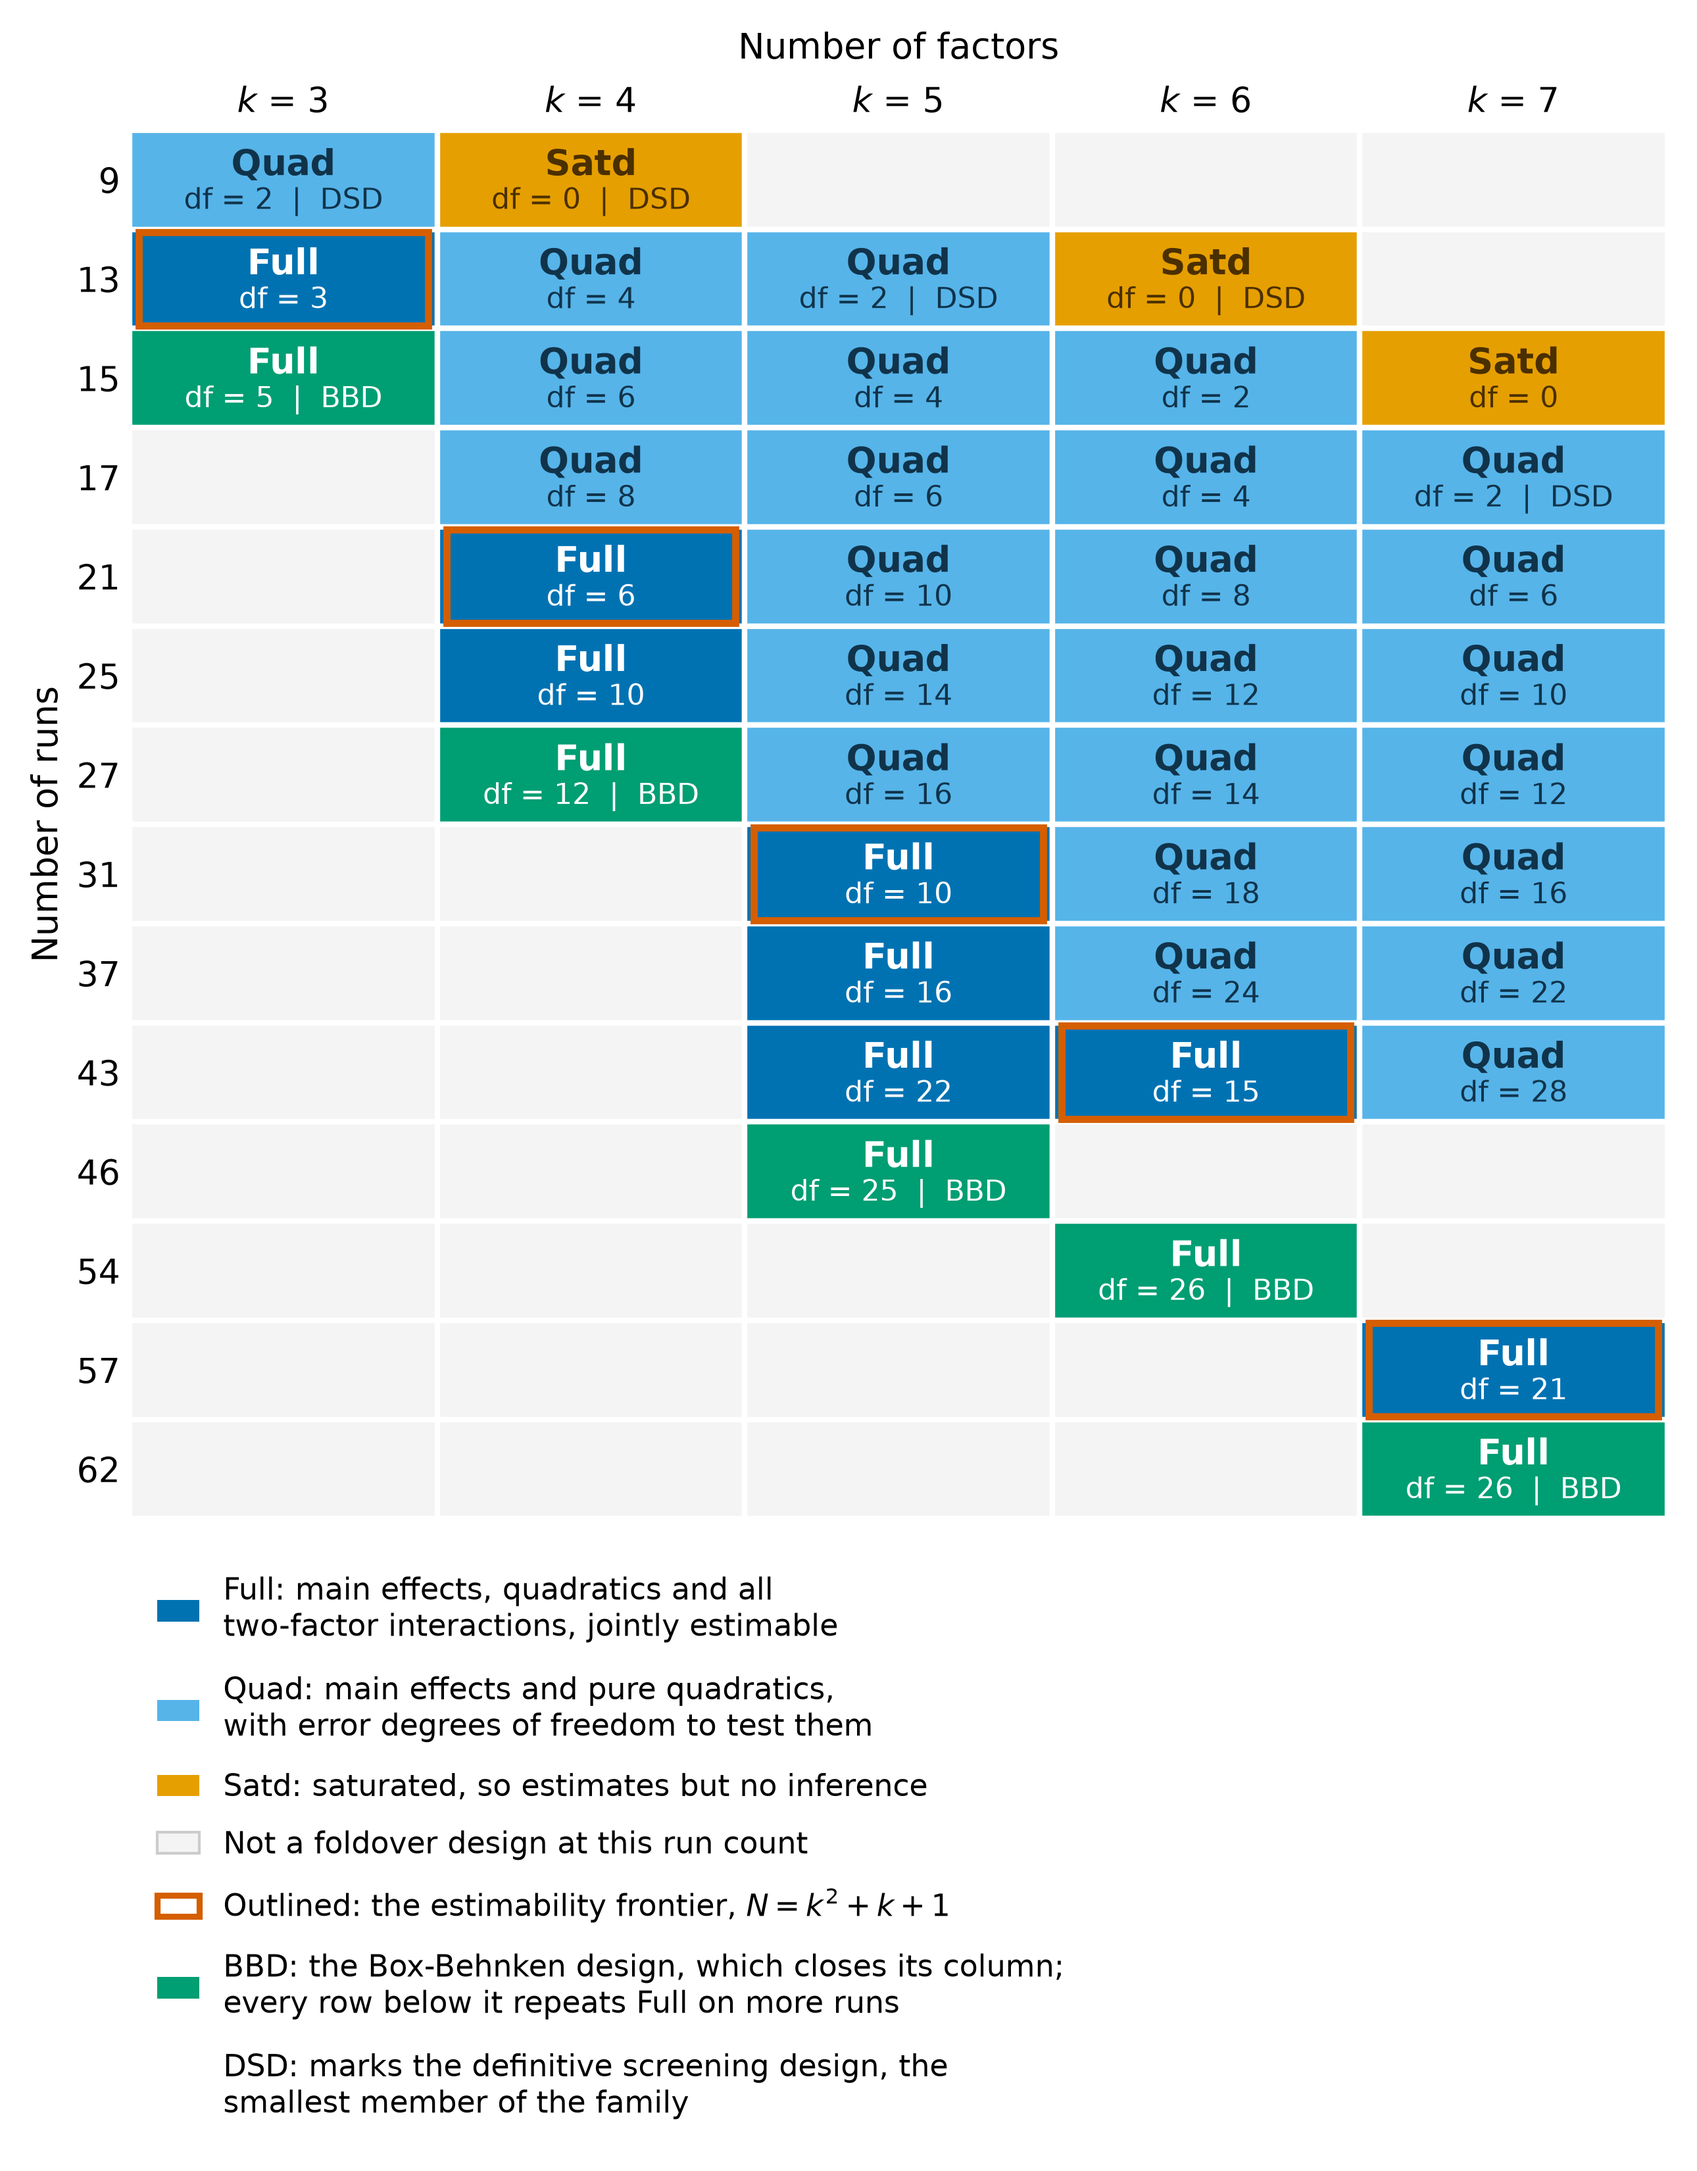
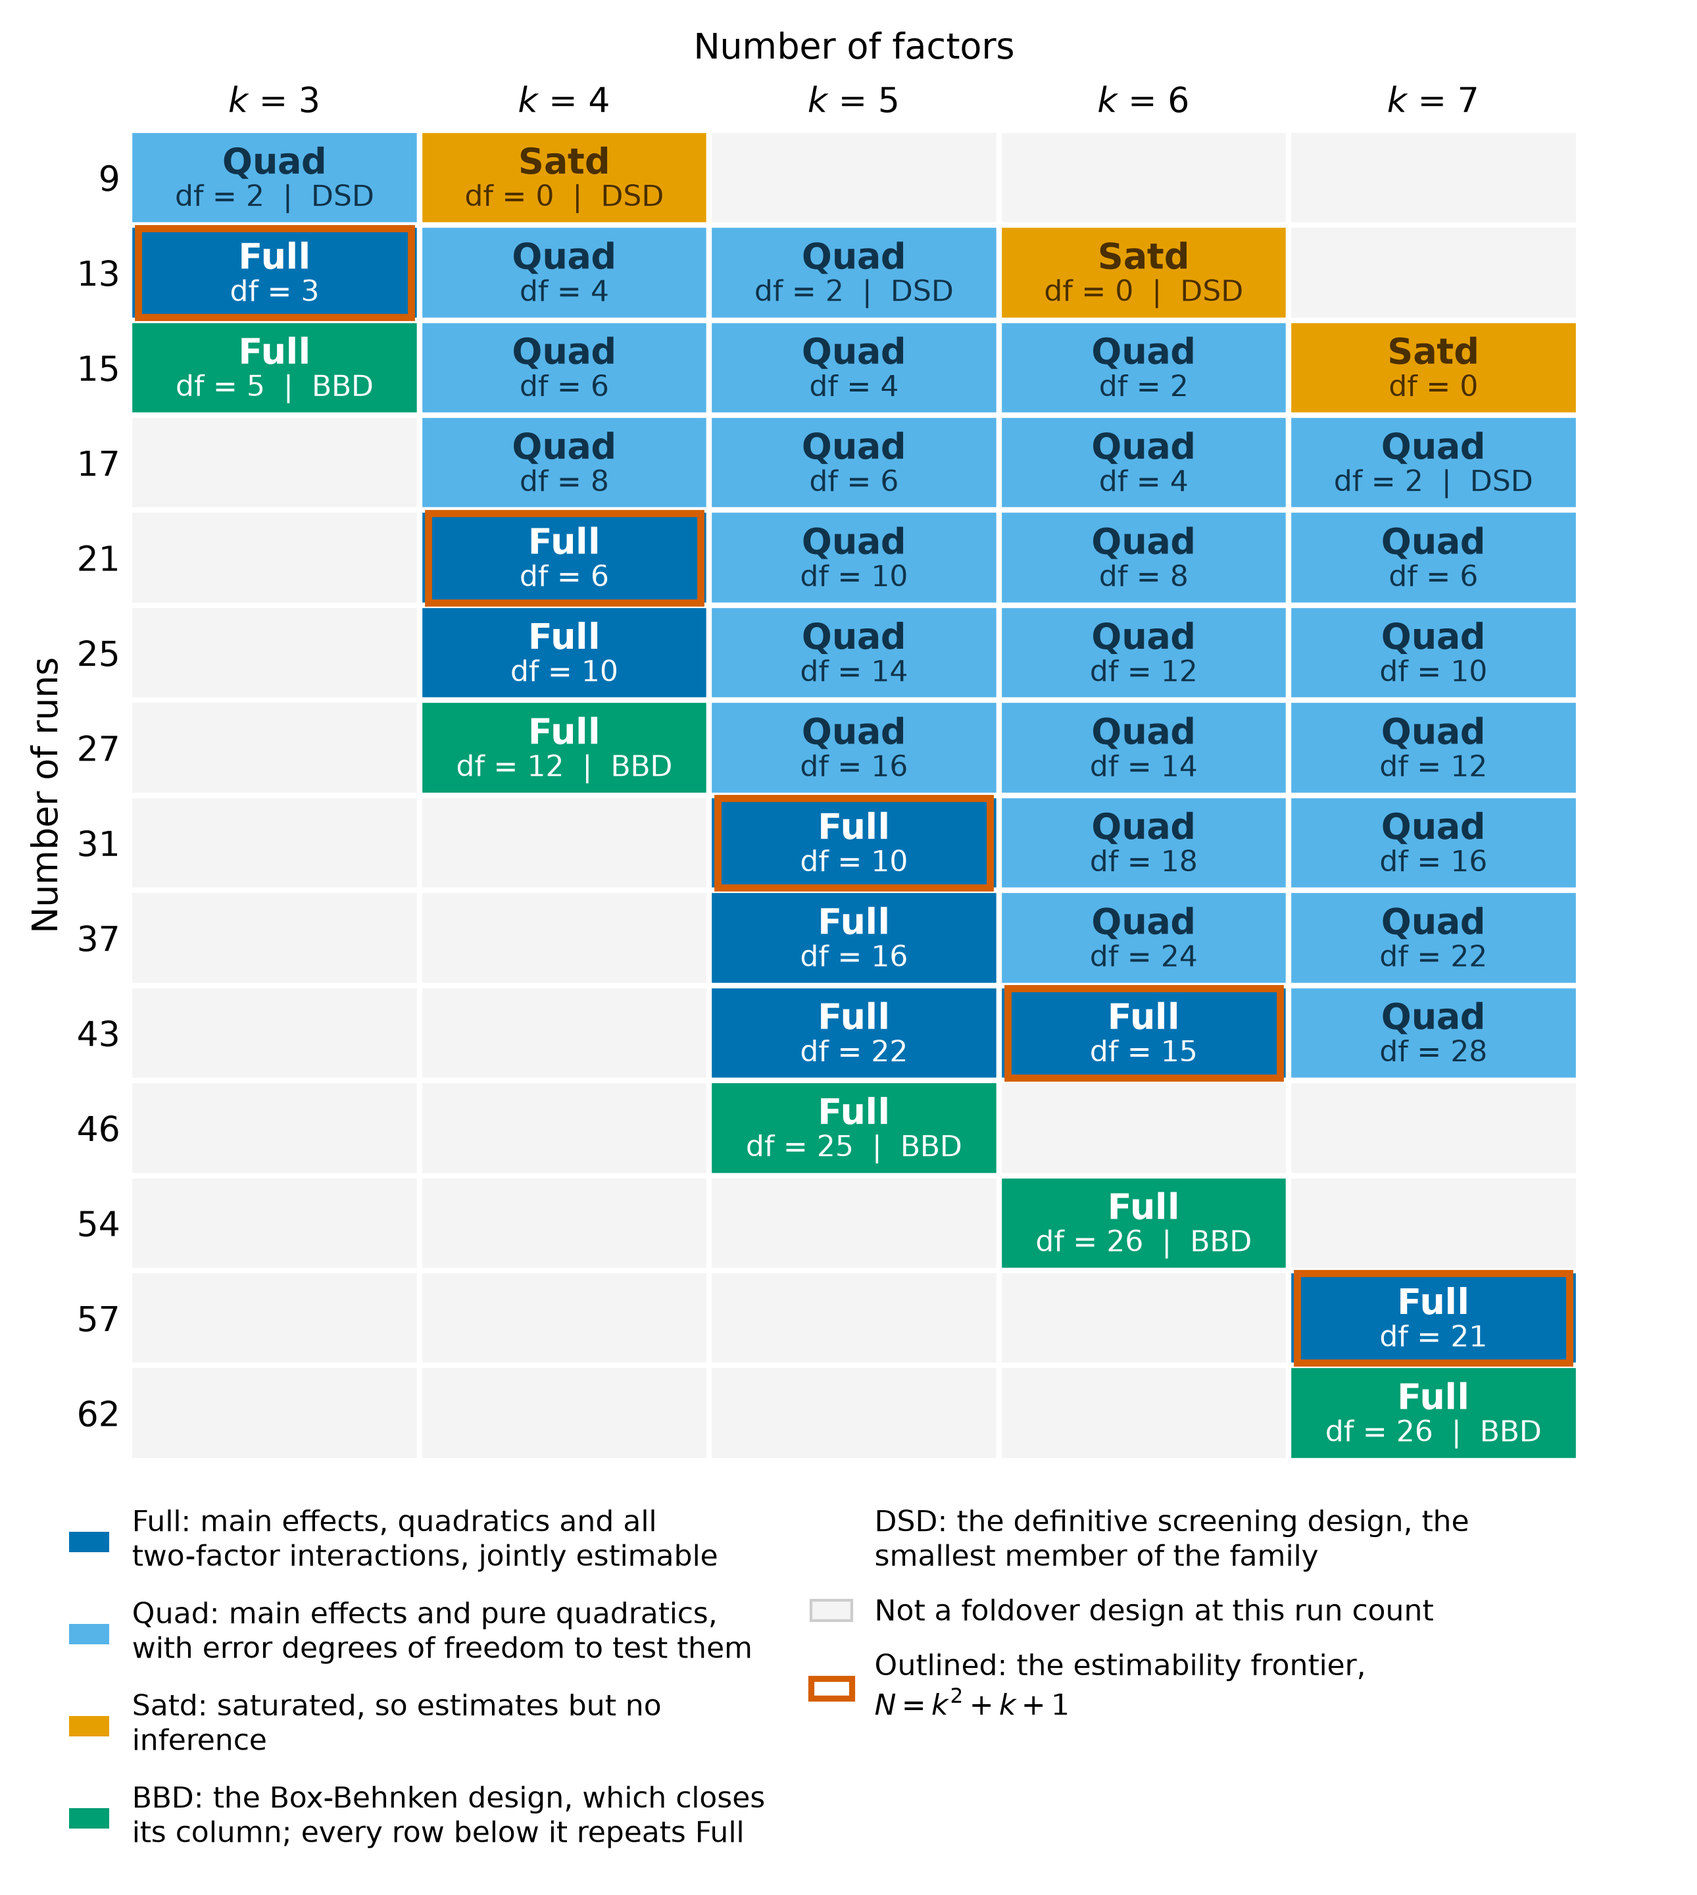
Set the staircase notes in two columns
The notes ran down a single column below the table and cost more vertical space
than the table rows they explain. Two columns halve that: the figure is 2880
pixels tall against 3300, with the table itself unchanged.

Matplotlib fills a multi-column legend column by column, so the entries are
ordered to put the three capability classes on the left and the two design
marks, the empty cells and the frontier outline on the right.

Also drops the numpy and Line2D imports, neither of which is used since the
anchor rows were replaced by in-place marks.

Claude-Session: https://claude.ai/code/session_01W1daHPaXLs7PPRsq8CmMMm

diff --git a/doe/omars-capability-staircase.py b/doe/omars-capability-staircase.py
@@ -24,8 +24,6 @@ omars_anchor_entry for the Box-Behnken cells, so the figure cannot drift away fr
 Reproducible; run from this directory to write the PNG alongside it.
 """
 import matplotlib.pyplot as plt
-import numpy as np
-from matplotlib.lines import Line2D
 from matplotlib.patches import Patch, Rectangle
 from process_improve.experiments import get_omars_trade_off_table_entry
 from process_improve.experiments.omars_trade_off import (
@@ -60,7 +58,7 @@ for n in runs:
             row.append((("dsd" if n == dsd_runs[k] else None), entry) if entry.exists else None)
     cells.append(row)
 
-fig, ax = plt.subplots(figsize=(8.6, 11.0))
+fig, ax = plt.subplots(figsize=(8.6, 9.6))
 
 for i, row in enumerate(cells):
     for j, cell in enumerate(row):
@@ -98,25 +96,29 @@ ax.tick_params(length=0)
 for side in ("top", "right", "bottom", "left"):
     ax.spines[side].set_visible(False)
 
+# Two columns, so the notes cost half the vertical space. Matplotlib fills a multi-column
+# legend column by column, so the order here is the left column then the right one: the three
+# capability classes on the left, and what the marks and shading mean on the right.
 legend = [
     Patch(facecolor=FILLS["full"], label="Full: main effects, quadratics and all\n"
                                          "two-factor interactions, jointly estimable"),
     Patch(facecolor=FILLS["quad"], label="Quad: main effects and pure quadratics,\n"
                                          "with error degrees of freedom to test them"),
-    Patch(facecolor=FILLS["satd"], label="Satd: saturated, so estimates but no inference"),
+    Patch(facecolor=FILLS["satd"], label="Satd: saturated, so estimates but no\n"
+                                         "inference"),
+    Patch(facecolor=FILLS["bbd"], label="BBD: the Box-Behnken design, which closes\n"
+                                        "its column; every row below it repeats Full"),
+    Patch(facecolor="white", edgecolor="white",
+          label="DSD: the definitive screening design, the\n"
+                "smallest member of the family"),
     Patch(facecolor=FILLS["none"], edgecolor="0.8",
           label="Not a foldover design at this run count"),
     Patch(facecolor="white", edgecolor="#D55E00", lw=2.2,
-          label="Outlined: the estimability frontier, $N = k^2 + k + 1$"),
-    Patch(facecolor=FILLS["bbd"],
-          label="BBD: the Box-Behnken design, which closes its column;\n"
-                "every row below it repeats Full on more runs"),
-    Patch(facecolor="white", edgecolor="white",
-          label="DSD: marks the definitive screening design, the\n"
-                "smallest member of the family"),
+          label="Outlined: the estimability frontier,\n$N = k^2 + k + 1$"),
 ]
-ax.legend(handles=legend, loc="upper left", bbox_to_anchor=(0.0, -0.02),
-          fontsize=11, frameon=False, handlelength=1.4, labelspacing=0.9)
+ax.legend(handles=legend, loc="upper left", bbox_to_anchor=(-0.06, -0.015), ncols=2,
+          fontsize=10.5, frameon=False, handlelength=1.4, labelspacing=0.8,
+          columnspacing=1.6, alignment="left")
 
 fig.tight_layout()
 fig.savefig("omars-capability-staircase.png", dpi=300, facecolor="w", edgecolor="w",
